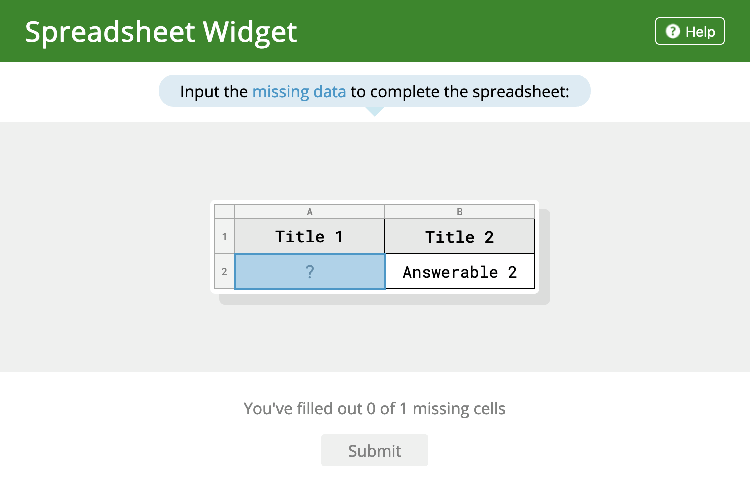
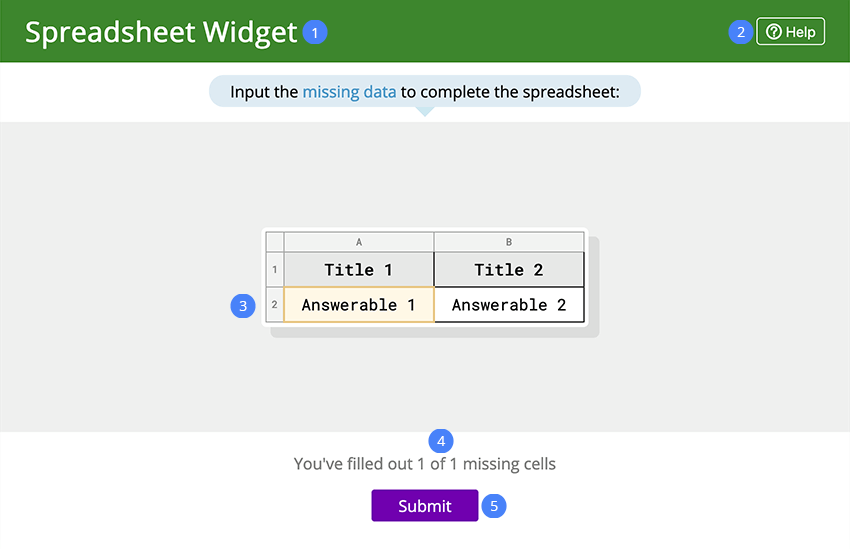
Update player image with numbers and add legend to guide

Changed region(s): [[0.0, 0.03, 1.0, 0.24], [0.2453, 0.42, 0.7053, 0.6], [0.3373, 0.78, 0.6747, 0.96]]

diff --git a/src/_guides/player.md b/src/_guides/player.md
@@ -4,6 +4,12 @@ Students must fill in the blanks on a spreadsheet. The blanks can be either rand
 
 ![player screen](assets/player.png)
 
+1. Widget Title
+2. Help Button
+3. Filled in Answer
+4. Answer Counter
+5. Submit Button
+
 ## Details
 
 ### Filling in the blanks
